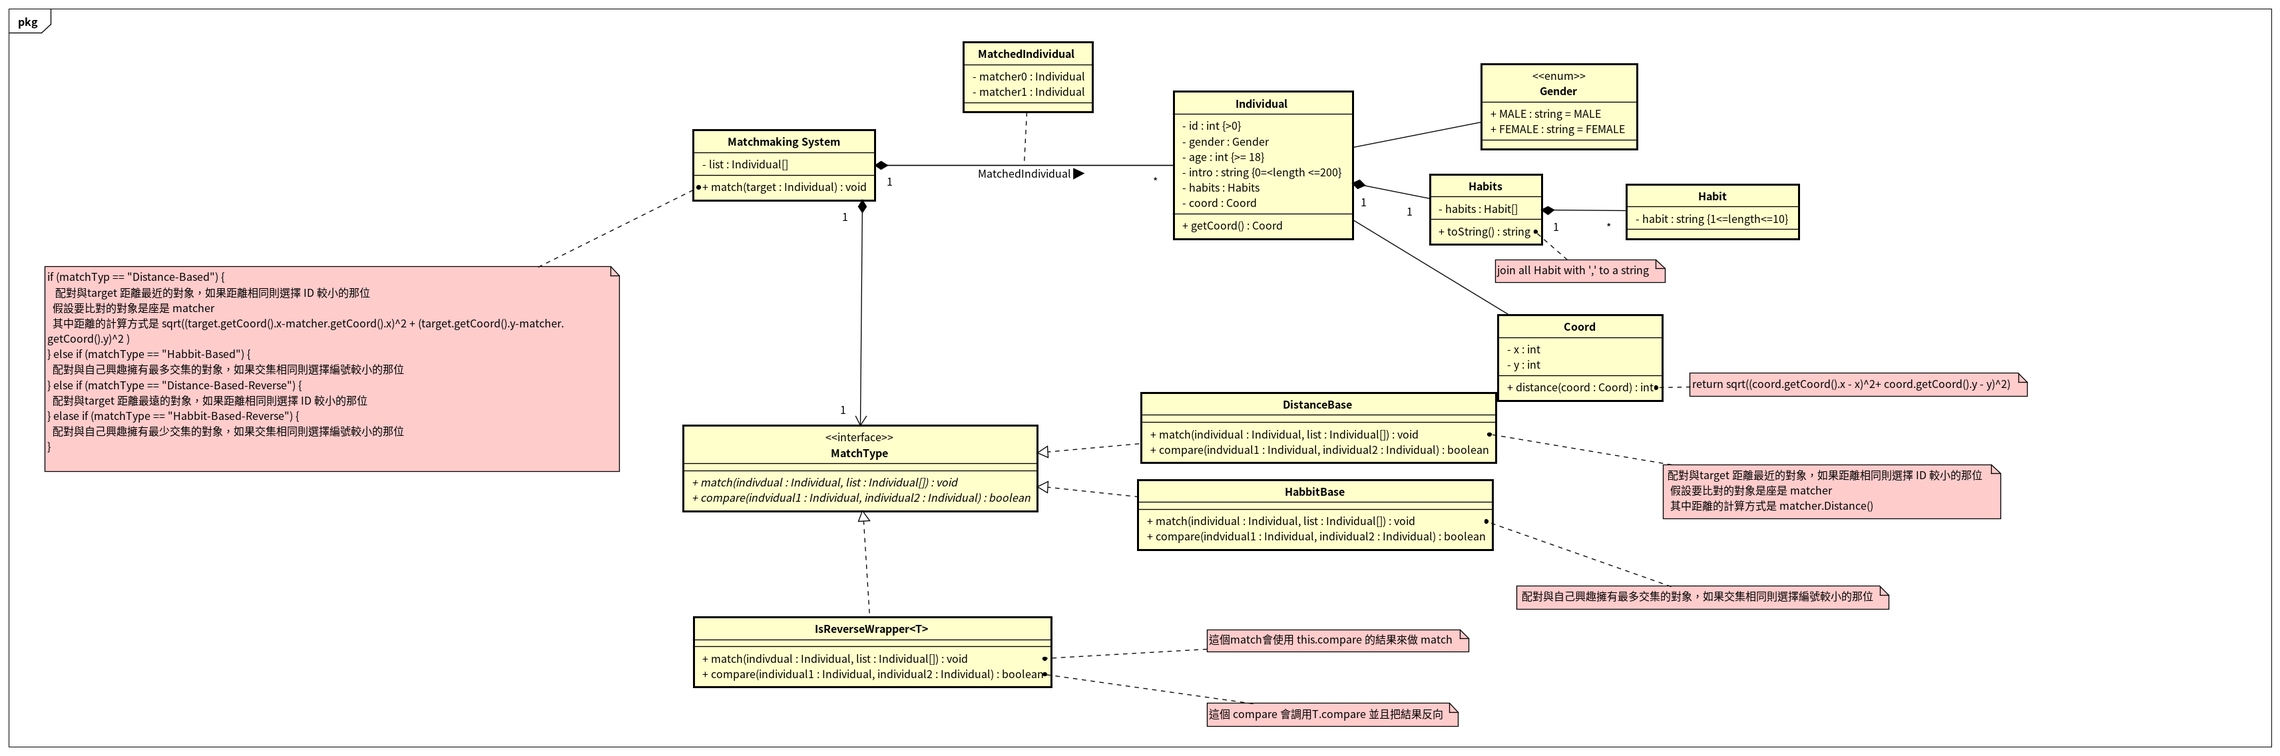
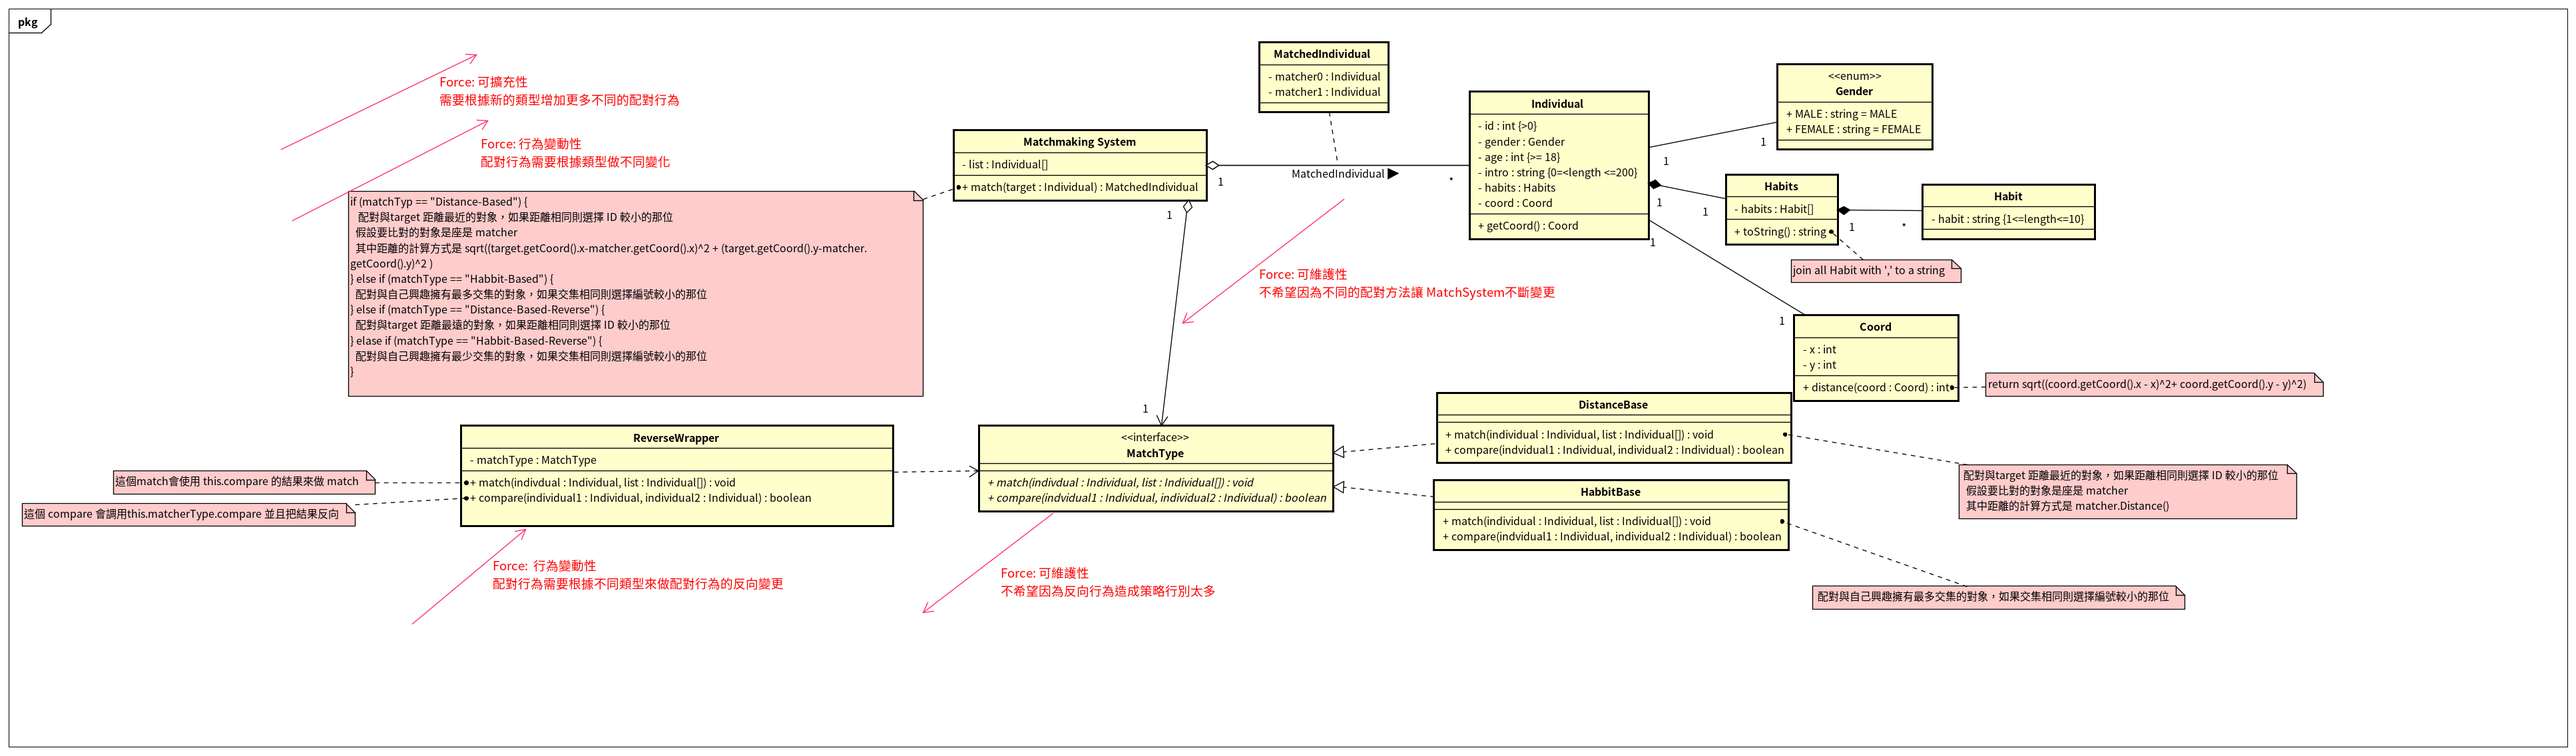
refactor(change generic to wrapper): change generic to wrapper
change generic to wrapper

diff --git a/test/match_test.go b/test/match_test.go
@@ -44,7 +44,7 @@ func TestHabbitMatchStrategy(t *testing.T) {
 func TestInverseDistanceStrategy(t *testing.T) {
 	distanceStrategy := match.NewDistanceBase()
 	// testing is-reverse-wrapper for distance base
-	matchmakingSystem := match.NewMatchMakingSystem(match.NewIsReverseWarpper[*match.DistanceBase](distanceStrategy))
+	matchmakingSystem := match.NewMatchMakingSystem(match.NewReverseWrapper(distanceStrategy))
 	john, marry, _ := WithMember(t, matchmakingSystem)
 	got := matchmakingSystem.Match(john)
 	if got.GetValue()[1].GetIntro() != marry.GetIntro() {
@@ -55,7 +55,7 @@ func TestInverseDistanceStrategy(t *testing.T) {
 func TestInverseHabbitStrategy(t *testing.T) {
 	habbitStrategy := match.NewHabbitBase()
 	// testing is-reverse-wrapper for habbit base
-	matchmakingSystem := match.NewMatchMakingSystem(match.NewIsReverseWarpper[*match.HabbitBase](habbitStrategy))
+	matchmakingSystem := match.NewMatchMakingSystem(match.NewReverseWrapper(habbitStrategy))
 	john, _, sue := WithMember(t, matchmakingSystem)
 	got := matchmakingSystem.Match(john)
 	if got.GetValue()[1].GetIntro() != sue.GetIntro() {

diff --git a/cmd/main.go b/cmd/main.go
@@ -29,10 +29,10 @@ func main() {
 	matchedResult := matchingSystem.Match(john)
 	fmt.Println(matchedResult) // marry is habbit matched
 	// switch to distance reverse stratgey
-	matchingSystem.SetMatchedType(match.NewIsReverseWarpper[*match.DistanceBase](distanceStrategy))
+	matchingSystem.SetMatchedType(match.NewReverseWrapper(distanceStrategy))
 	matchedResult = matchingSystem.Match(john)
 	fmt.Println(matchedResult) // marry is longest distance for matched
-	matchingSystem.SetMatchedType(match.NewIsReverseWarpper[*match.HabbitBase](habbitStrategy))
+	matchingSystem.SetMatchedType(match.NewReverseWrapper(habbitStrategy))
 	matchedResult = matchingSystem.Match(john)
 	fmt.Println(matchedResult) // sue is longest distance for matched
 }

diff --git a/match/reverse-wrapper.go b/match/reverse-wrapper.go
@@ -1,0 +1,26 @@
+package match
+
+import "sort"
+
+type ReverseWrapper struct {
+	matchType MatchType
+}
+
+func NewReverseWrapper(matchType MatchType) *ReverseWrapper {
+	return &ReverseWrapper{
+		matchType: matchType,
+	}
+}
+
+func (r *ReverseWrapper) Match(target *Individual, list List) *MatchedIndividual {
+	temp := make([]*Individual, len(list))
+	copy(temp, list)
+	sort.Slice(temp, r.Compare(target, list))
+	return NewMatchedIndividual(target, temp[0])
+}
+
+func (r *ReverseWrapper) Compare(target *Individual, list List) func(i, j int) bool {
+	return func(i int, j int) bool {
+		return !r.matchType.Compare(target, list)(i, j)
+	}
+}
